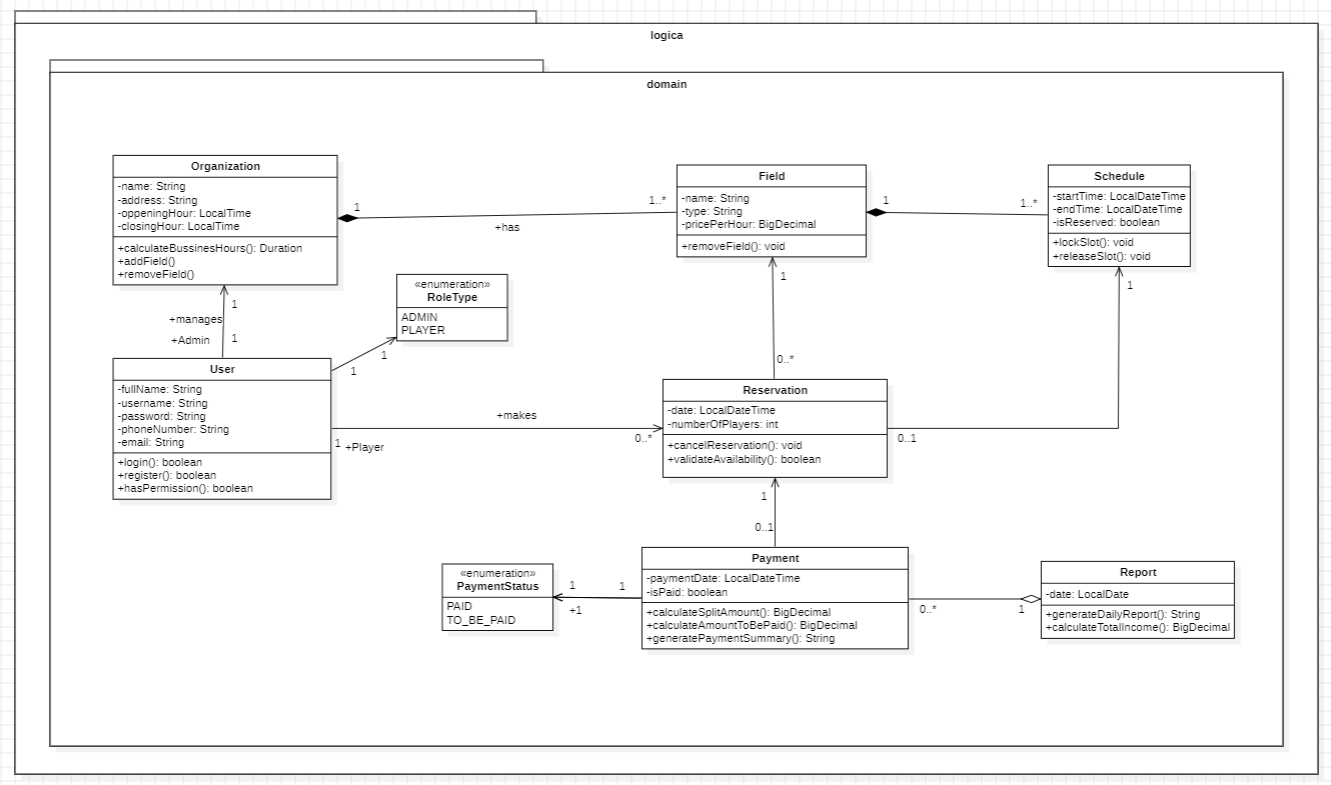
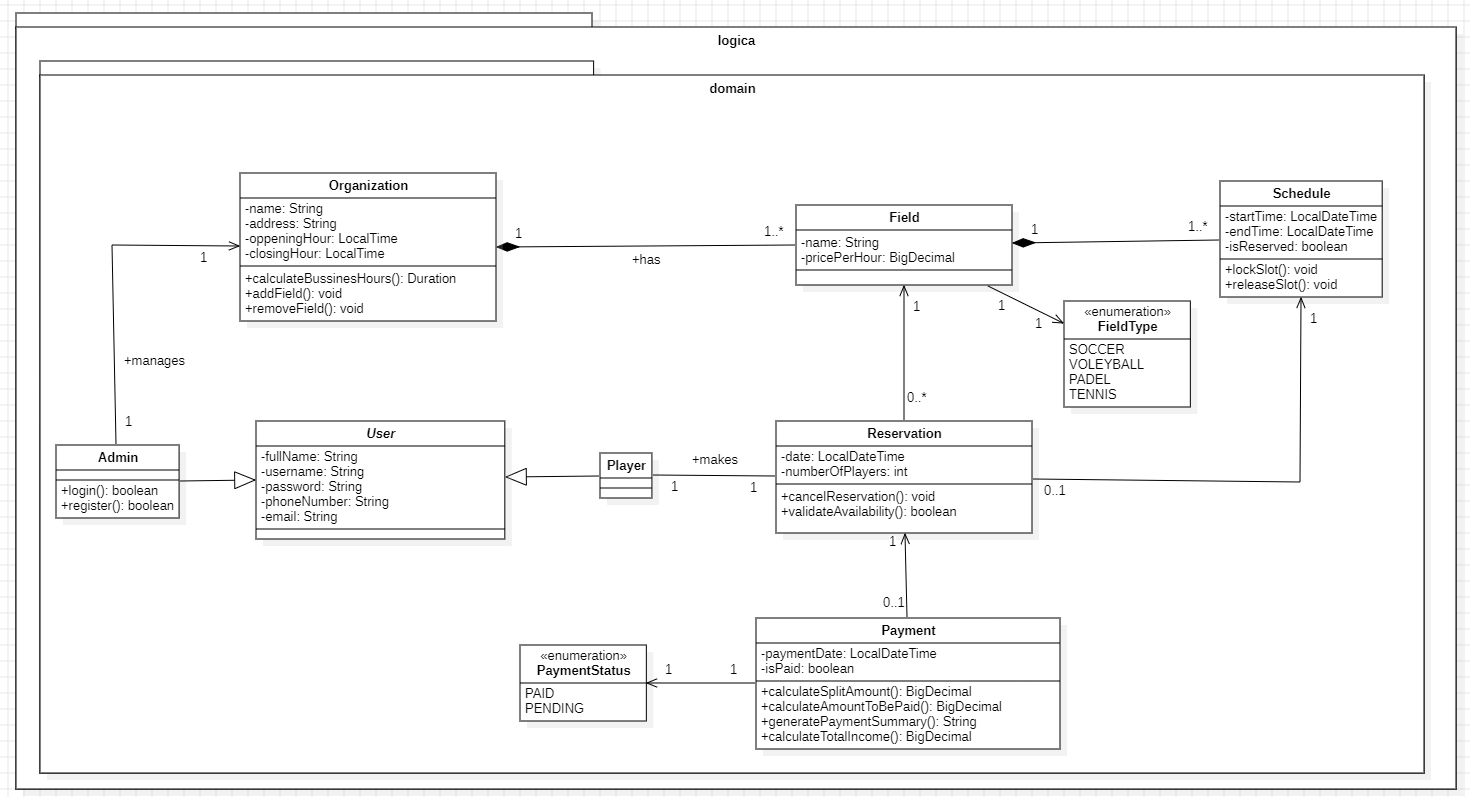
Implementacion de la ennumeracion Tipo de cancha y modificacion de la clase Field

diff --git a/src/main/java/edu/unl/cc/proyect/logica/domain/Field.java b/src/main/java/edu/unl/cc/proyect/logica/domain/Field.java
@@ -6,8 +6,8 @@ import java.util.List;
 
 public class Field implements Serializable {
     private String name;
-    private String type;
     private BigDecimal pricePerHour;
+    private FieldType fieldType;
 
     private List<Schedule> schedules;
 
@@ -16,11 +16,11 @@ public class Field implements Serializable {
     }
 
     // CONSTRUCTOR
-    public Field(String name, String type, BigDecimal pricePerHour, String status) {
+    public Field(String name, FieldType fieldType, BigDecimal pricePerHour) {
         this.name = name;
-        this.type = type;
         this.pricePerHour = pricePerHour;
         this.schedules = new ArrayList<>();
+        this.fieldType = fieldType;
     }
 
     //METODO
@@ -34,14 +34,6 @@ public class Field implements Serializable {
 
     public void setName(String fieldName) {
         this.name = fieldName;
-    }
-
-    public String getType() {
-        return type;
-    }
-
-    public void setType(String type) {
-        this.type = type;
     }
 
     public BigDecimal getPricePerHour() {
@@ -58,5 +50,13 @@ public class Field implements Serializable {
 
     public void setSchedules(List<Schedule> schedules) {
         this.schedules = schedules;
+    }
+
+    public FieldType getFieldType() {
+        return fieldType;
+    }
+
+    public void setFieldType(FieldType fieldType) {
+        this.fieldType = fieldType;
     }
 }

diff --git a/src/main/java/edu/unl/cc/proyect/logica/domain/FieldType.java b/src/main/java/edu/unl/cc/proyect/logica/domain/FieldType.java
@@ -1,0 +1,8 @@
+package edu.unl.cc.proyect.logica.domain;
+
+public enum FieldType {
+    SOCCER,
+    PADEL,
+    VOLEYBALL,
+    TENNIS
+}
